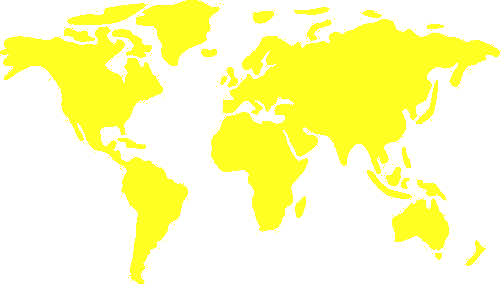
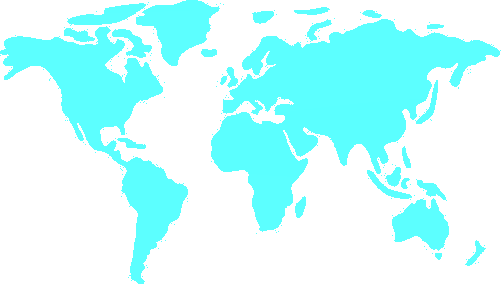
modified:   Colors.qml 	modified:   README.md 	modified:   assets/.map_last_color 	modified:   assets/map_colorized_latest.png 	modified:   assets/map_colorized_latest_dark.png 	modified:   modules/dashboard/DashboardDropdown.qml 	modified:   modules/dashboard/speedtest_cache.json 	modified:   modul

diff --git a/modules/dashboard/DashboardDropdown.qml b/modules/dashboard/DashboardDropdown.qml
@@ -12,10 +12,10 @@ import "../../state"
 // ============================================================
 // DASHBOARD DROPDOWN — tabbed info panel with:
 //   Tab 0 — Dashboard : weather card + system info + mini media + calendar
-//   Tab 1 — Media     : full-size media player
+//   Tab 1 — Network   : active interface, IP, gateway, DNS
 //   Tab 2 — Performance: CPU + RAM usage bars
-//   Tab 3 — Weather   : current conditions + 3-day forecast
-//   Tab 4 — Network   : active interface, IP, gateway, DNS
+//   Tab 3 — Media     : full-size media player
+//   Tab 4 — Weather   : current conditions + 3-day forecast
 // ============================================================
 DropdownBase {
     id: dash
@@ -30,7 +30,7 @@ DropdownBase {
     readonly property int _contentY: 16 + 10 + 36 + 8 // tab content top
 
     // Per-tab panelFullHeight: must accommodate _contentY + content + bottom-pad
-    readonly property int _dashH:    _contentY + 155 + 10 + 200 + 4  // info row + cal
+    readonly property int _dashH:    _contentY + 182 + 10 + 185 + 4  // info row + cal
     readonly property int _mediaH:   _contentY + 287 + 12  // increased for volume slider at top
     readonly property int _perfH:    _contentY + 194 + 12
     readonly property int _weatherH: _contentY + 455 + 12  // current + hourly + weekly + sunrise
@@ -39,10 +39,10 @@ DropdownBase {
     panelFullHeight: {
         switch (dash._tab) {
             case 0: return dash._dashH
-            case 1: return dash._mediaH
+            case 1: return dash._networkH
             case 2: return dash._perfH
-            case 3: return dash._weatherH
-            case 4: return dash._networkH
+            case 3: return dash._mediaH
+            case 4: return dash._weatherH
             default: return dash._mediaH
         }
     }
@@ -70,6 +70,7 @@ DropdownBase {
     property string _kernelVersion:  "…"
     property string _hyprlandVersion: "…"
     property int    _updates:     -1  // -1 = loading, 0 = up to date, >0 = count
+    property string _aurStatus:   ""  // empty = loading, then headline from status.archlinux.org
     property string _mediaTitle:  "No media playing"
     property string _mediaArtist: ""
     property string _mediaArtUrl: ""
@@ -193,7 +194,7 @@ DropdownBase {
         // Kernel + Hyprland versions are cheap one-shots — fire once per open
         kernelProc.running       = true
         hyprlandVerProc.running  = true
-        // VPN / network data is only needed when the user switches to tab 4;
+        // VPN / network data is only needed when the user switches to tab 3;
         // don't fork processes for a tab the user may never visit this session.
         Audio.cava.visualizationVisible = false
     }
@@ -202,11 +203,11 @@ DropdownBase {
         if (!isOpen) {
             Audio.cava.visualizationVisible = false
             _stExpanded = false
-        } else if (_tab === 1 && _mediaAvail) Audio.cava.visualizationVisible = true
+        } else if (_tab === 3 && _mediaAvail) Audio.cava.visualizationVisible = true
     }
 
     on_TabChanged: {
-        if (_tab === 4) {
+        if (_tab === 1) {
             _netIfaceProc.running = true
             _vpnBuf = []
             _mapRefreshCounter++  // Force map image reload
@@ -215,12 +216,12 @@ DropdownBase {
         } else {
             // Leave tab 4 — clear keyboard focus so highlight doesn't persist
             _netFocusIdx = -1
-            if (_tab === 1) {
+            if (_tab === 3) {
                 mediaProc.running = true
             }
         }
         // Control CAVA visualization
-        Audio.cava.visualizationVisible = dash.isOpen && _tab === 1 && _mediaAvail
+        Audio.cava.visualizationVisible = dash.isOpen && _tab === 3 && _mediaAvail
     }
 
     // Start update check only after dropdown finishes opening.
@@ -241,17 +242,17 @@ DropdownBase {
         repeat:   true
         onTriggered: {
             if (dash._tab === 0) uptimeProc.running = true
-            if (dash._tab === 1) mediaProc.running  = true
+            if (dash._tab === 3) mediaProc.running  = true
             if (dash._tab === 0 || dash._tab === 2) perfProc.running = true
-            if (dash._tab === 4) _netIfaceProc.running = true
-            if (dash._tab === 4) { dash._vpnBuf = []; dash._mapRefreshCounter++; _vpnProc.running = true }
+            if (dash._tab === 1) _netIfaceProc.running = true
+            if (dash._tab === 1) { dash._vpnBuf = []; dash._mapRefreshCounter++; _vpnProc.running = true }
         }
     }
 
     // Progress bar update timer - runs every second for smooth seekbar updates
     Timer {
         interval: 1000
-        running:  dash.isOpen && dash._tab === 1 && dash._mediaAvail
+        running:  dash.isOpen && dash._tab === 3 && dash._mediaAvail
         repeat:   true
         onTriggered: {
             mediaProc.running = true
@@ -294,6 +295,35 @@ DropdownBase {
             onRead: data => {
                 var v = data.trim()
                 dash._hyprlandVersion = v !== "" ? v : "?"
+            }
+        }
+    }
+
+    // ── Arch Linux service status ─────────────────────────────
+    // Fetched once at startup then refreshed every 5 minutes via aurRefreshTimer.
+    // Result persists across panel opens so the user always sees the last known state.
+    Component.onCompleted: aurStatusProc.running = true
+
+    Timer {
+        id: aurRefreshTimer
+        interval: 5 * 60 * 1000   // 5 minutes
+        repeat: true
+        running: true
+        onTriggered: aurStatusProc.running = true
+    }
+
+    Process {
+        id: aurStatusProc
+        running: false
+        command: ["bash", "-c",
+            "curl -s --max-time 10 'https://status.archlinux.org/api/getMonitorList/vmM5ruWEAB' | "
+            + "jq -r '[.data[]|select(.statusClass!=\"success\")|.name] | if length==0 then \"All Systems Operational\" else \"Degraded: \"+join(\", \") end' 2>/dev/null "
+            + "|| curl -s --max-time 10 'https://status.archlinux.org/api/getMonitorList/vmM5ruWEAB' | "
+            + "python3 -c \"import json,sys;d=json.load(sys.stdin);down=[m['name'] for m in d['data'] if m['statusClass']!='success'];print('All Systems Operational' if not down else 'Degraded: '+', '.join(down))\""]
+        stdout: SplitParser {
+            onRead: data => {
+                var s = data.trim()
+                dash._aurStatus = s !== "" ? s : "Status unavailable"
             }
         }
     }
@@ -474,7 +504,7 @@ DropdownBase {
                         dash._mediaDuration = 0
                     }
                     // Control CAVA visualization
-                    Audio.cava.visualizationVisible = dash.isOpen && dash._tab === 1 && dash._mediaAvail
+                    Audio.cava.visualizationVisible = dash.isOpen && dash._tab === 3 && dash._mediaAvail
                 } else {
                     dash._mediaStatus = "Stopped"
                     dash._mediaAvail = false
@@ -550,19 +580,19 @@ DropdownBase {
         Keys.onLeftPressed:  { dash._tab = (dash._tab + 4) % 5; dash.triggerHex() }
         Keys.onEscapePressed: dash.closePanel()
 
-        // ── Network tab (Tab 4) up/down/enter/space navigation ─────
+        // ── Network tab (Tab 1) up/down/enter/space navigation ─────
         Keys.onDownPressed: {
-            if (dash._tab !== 4) return
+            if (dash._tab !== 1) return
             var total = dash._vpnConnections.length + 2  // cards + editor button + speedtest
             dash._netFocusIdx = (dash._netFocusIdx + 1 + total) % total
         }
         Keys.onUpPressed: {
-            if (dash._tab !== 4) return
+            if (dash._tab !== 1) return
             var total = dash._vpnConnections.length + 2
             dash._netFocusIdx = (dash._netFocusIdx - 1 + total) % total
         }
         Keys.onReturnPressed: {
-            if (dash._tab !== 4 || dash._netFocusIdx < 0) return
+            if (dash._tab !== 1 || dash._netFocusIdx < 0) return
             if (dash._netFocusIdx < dash._vpnConnections.length) {
                 dash._netKbdFireIdx = dash._netFocusIdx
             } else if (dash._netFocusIdx === dash._vpnConnections.length) {
@@ -574,7 +604,7 @@ DropdownBase {
             }
         }
         Keys.onSpacePressed: {
-            if (dash._tab !== 4 || dash._netFocusIdx !== dash._vpnConnections.length + 1) return
+            if (dash._tab !== 1 || dash._netFocusIdx !== dash._vpnConnections.length + 1) return
             // Speedtest header — Space starts/stops the test
             if (dash._stRunning) {
                 _speedtestProc.running = false
@@ -605,10 +635,10 @@ DropdownBase {
         Repeater {
             model: [
                 { icon: "󰕮", label: "Dashboard"   },
-                { icon: "󰝚", label: "Media"        },
+                { icon: "󰈀", label: "Network"      },
                 { icon: "󰻠", label: "Performance"  },
-                { icon: "󰖕", label: "Weather"      },
-                { icon: "󰈀", label: "Network"      }
+                { icon: "󰝚", label: "Media"        },
+                { icon: "󰖕", label: "Weather"      }
             ]
             delegate: Rectangle {
                 id: tabItem
@@ -684,7 +714,7 @@ DropdownBase {
         // ── Weather card ──────────────────────────────────────
         Rectangle {
             x: 0; y: 0
-            width: parent.weatherW; height: 155
+            width: parent.weatherW; height: 182
             radius: 10
             color:        Qt.rgba(dash.accentColor.r, dash.accentColor.g, dash.accentColor.b, 0.08)
             border.color: Qt.rgba(dash.accentColor.r, dash.accentColor.g, dash.accentColor.b, 0.20)
@@ -721,7 +751,7 @@ DropdownBase {
         // ── System info card ──────────────────────────────────
         Rectangle {
             x: parent.weatherW + 10; y: 0
-            width: parent.sysinfoW; height: 155
+            width: parent.sysinfoW; height: 182
             radius: 10
             color:        Qt.rgba(dash.accentColor.r, dash.accentColor.g, dash.accentColor.b, 0.08)
             border.color: Qt.rgba(dash.accentColor.r, dash.accentColor.g, dash.accentColor.b, 0.20)
@@ -744,6 +774,28 @@ DropdownBase {
                     Text { text: "󰔛"; font.family: config.fontFamily; font.styleName: "Solid"; font.pixelSize: 14; color: dash.accentColor; anchors.verticalCenter: parent.verticalCenter }
                     Text { text: dash._uptime; color: dash.textColor; font.pixelSize: 13; font.family: config.fontFamily; anchors.verticalCenter: parent.verticalCenter }
                 }
+                Item { width: 1; height: 1 }
+                // AUR / Arch service status
+                Row {
+                    spacing: 8
+                    readonly property bool _ok: dash._aurStatus === "All Systems Operational"
+                    readonly property bool _loading: dash._aurStatus === ""
+                    Text {
+                        text: "󰖟"
+                        font.family: config.fontFamily; font.styleName: "Solid"; font.pixelSize: 14
+                        color: parent._loading ? dash.dimColor : dash.accentColor
+                        anchors.verticalCenter: parent.verticalCenter
+                        Behavior on color { ColorAnimation { duration: 200 } }
+                    }
+                    Text {
+                        text: dash._aurStatus === "" ? "Checking Arch status…" : dash._aurStatus
+                        color: parent._loading ? dash.dimColor : (parent._ok ? dash.textColor : "#f38ba8")
+                        font.pixelSize: 13; font.family: config.fontFamily
+                        anchors.verticalCenter: parent.verticalCenter
+                        Behavior on color { ColorAnimation { duration: 200 } }
+                    }
+                }
+
                 Item {
                     width: updatesRow.implicitWidth
                     height: updatesRow.implicitHeight
@@ -851,7 +903,7 @@ DropdownBase {
 
         // ── Clock + calendar row ──────────────────────────────
         Item {
-            x: 0; y: 155 + 10
+            x: 0; y: 182 + 10
             width: parent.width; height: 200
 
             readonly property real calW:   (parent.width - 10) * (1.25 / 2.25)
@@ -1022,7 +1074,7 @@ DropdownBase {
                                 color: modelData.overflow
                                     ? Qt.rgba(dash.accentColor.r, dash.accentColor.g, dash.accentColor.b, 0.25)
                                     : modelData.isToday ? dash.panelColor : dash.accentColor
-                                font.pixelSize: 13; font.bold: modelData.isToday
+                                font.pixelSize: modelData.isToday ? 11 : 13; font.bold: modelData.isToday
                                 font.family: config.fontFamily
                             }
                         }
@@ -1035,14 +1087,14 @@ DropdownBase {
     }
 
     // ══════════════════════════════════════════════════════════
-    // TAB 1: MEDIA
+    // TAB 3: MEDIA
     // ══════════════════════════════════════════════════════════
     Item {
         x:       16 + 14
         y:       dash._contentY
         width:   dash._cw
         height:  287
-        visible: dash._tab === 1
+        visible: dash._tab === 3
 
         property int _mediaDragVol: -1
         readonly property int _mediaDisplayVol: _mediaDragVol >= 0 ? _mediaDragVol : VolumeState.volume
@@ -1146,7 +1198,7 @@ DropdownBase {
             property real _artAngle: 0
             Timer {
                 interval: 50
-                running: dash._mediaStatus === "Playing" && dash.isOpen && dash._tab === 1
+                running: dash._mediaStatus === "Playing" && dash.isOpen && dash._tab === 3
                 repeat: true
                 onTriggered: bigArt._artAngle = (bigArt._artAngle + 3) % 360
             }
@@ -1199,7 +1251,7 @@ DropdownBase {
 
                     property bool needsScroll: paintedWidth > mediaTitleClip.width
                     SequentialAnimation {
-                        running: mediaTitleText.needsScroll && dash.isOpen && dash._tab === 1
+                        running: mediaTitleText.needsScroll && dash.isOpen && dash._tab === 3
                         loops: Animation.Infinite
                         PauseAnimation { duration: 2000 }
                         NumberAnimation {
@@ -1415,7 +1467,7 @@ DropdownBase {
                         id: cavaBar
                         required property int index
 
-                        property real value: (dash.isOpen && dash._tab === 1 && dash._mediaAvail) ?
+                        property real value: (dash.isOpen && dash._tab === 3 && dash._mediaAvail) ?
                             Math.max(0, Math.min(1,
                                 Audio.cava.values?.[Math.floor((index / (cavaBarsRow.barCount - 1)) * (Audio.cava.values?.length - 1 || 0))] || 0
                             )) : 0
@@ -1427,7 +1479,7 @@ DropdownBase {
                         color: Qt.rgba(dash.accentColor.r, dash.accentColor.g, dash.accentColor.b, 0.8)
 
                         Behavior on height {
-                            enabled: dash.isOpen && dash._tab === 1 && dash._mediaAvail
+                            enabled: dash.isOpen && dash._tab === 3 && dash._mediaAvail
                             NumberAnimation {
                                 duration: 30
                                 easing.type: Easing.Linear
@@ -1608,14 +1660,14 @@ DropdownBase {
     }
 
     // ══════════════════════════════════════════════════════════
-    // TAB 3: WEATHER
+    // TAB 4: WEATHER
     // ══════════════════════════════════════════════════════════
     Item {
         x:       16 + 14
         y:       dash._contentY
         width:   dash._cw
         height:  431
-        visible: dash._tab === 3
+        visible: dash._tab === 4
 
         Text {
             visible: WeatherState.wLoading
@@ -1819,14 +1871,14 @@ DropdownBase {
     }
 
     // ══════════════════════════════════════════════════════════
-    // TAB 4: NETWORK
+    // TAB 1: NETWORK
     // ══════════════════════════════════════════════════════════
     Item {
         x:       16 + 14
         y:       dash._contentY
         width:   dash._cw
         height:  326 + 8 + 38 + (dash._stExpanded ? 8 + 176 : 0) + 12
-        visible: dash._tab === 4
+        visible: dash._tab === 1
 
         Rectangle {
             id: _netCard
@@ -1984,8 +2036,8 @@ DropdownBase {
                 // Equirectangular projection offsets (image is letterboxed / centered by PreserveAspectFit)
                 readonly property real _offX:    (_mapContainer.width  - _mapImage.paintedWidth)  / 2
                 readonly property real _offY:    (_mapContainer.height - _mapImage.paintedHeight) / 2
-                readonly property real _centerX: _offX + (dash._vpnGeoLon + 180) / 360 * _mapImage.paintedWidth  - 10
-                readonly property real _centerY: _offY + (90 - dash._vpnGeoLat) / 180 * _mapImage.paintedHeight + 17
+                readonly property real _centerX: _offX + (dash._vpnGeoLon + 180) / 360 * _mapImage.paintedWidth  - 12
+                readonly property real _centerY: _offY + (90 - dash._vpnGeoLat) / 180 * _mapImage.paintedHeight + 19
 
                 // Ring 1 — first ripple
                 Rectangle {

diff --git a/Colors.qml b/Colors.qml
@@ -7,8 +7,8 @@ import QtQuick
 // Access from any QML file that imports the root module:
 //   Colors.col_primary  Colors.col_source_color  etc.
 Singleton {
-    property color col_background: "#15130c"
-    property color col_source_color: "#e6cb01"
-    property color col_primary: "#d8c770"
-    property color col_main: "#353116"
+    property color col_background: "#0e1514"
+    property color col_source_color: "#2decec"
+    property color col_primary: "#80d5d4"
+    property color col_main: "#1b3534"
 }

diff --git a/README.md b/README.md
@@ -4,7 +4,7 @@
 
 A highly customized Wayland status bar and system interface built with [Quickshell](https://quickshell.outfoxxed.me/) for Hyprland.
 
-**Last Updated**: May 15, 2026 — Added Ookla speed test panel to Dashboard Network tab (live gauges, animated arrows, persistent cache)
+**Last Updated**: May 16, 2026 — Added Arch Linux service status checker to Dashboard tab (polls `status.archlinux.org` every 5 minutes, shows degraded services or "All Systems Operational")
 
 ---
 
@@ -586,7 +586,7 @@ The `--type` argument is configurable from inside the dropdown itself and persis
 
 - **Weather card** — current icon, temperature, and description from `WeatherState`
 - **System info card** — two columns:
-  - *Left*: kernel version (`uname -r`), Hyprland version (`hyprctl version`), uptime, and a package update row. When updates are available the row is clickable — clicking it closes the panel and launches a `kitty` terminal running `yay -Syu`. The row flashes white when the update count first increases.
+  - *Left*: kernel version (`uname -r`), Hyprland version (`hyprctl version`), uptime, a package update row, and an **Arch Linux service status** row. When updates are available the update row is clickable — clicking it closes the panel and launches a `kitty` terminal running `yay -Syu`. The row flashes white when the update count first increases. The service status row polls `https://status.archlinux.org/api/getMonitorList/vmM5ruWEAB` on startup then every 5 minutes; it shows `All Systems Operational` when all services are healthy or `Degraded: <service names>` when any are not. The last-fetched status persists across panel opens. Uses `jq` for parsing with a `python3` fallback.
   - *Right*: CPU / RAM / Disk percentage as thin animated progress bars (turns red above 85%).
 
 Below the info cards sits a **clock + date + inline calendar** row: